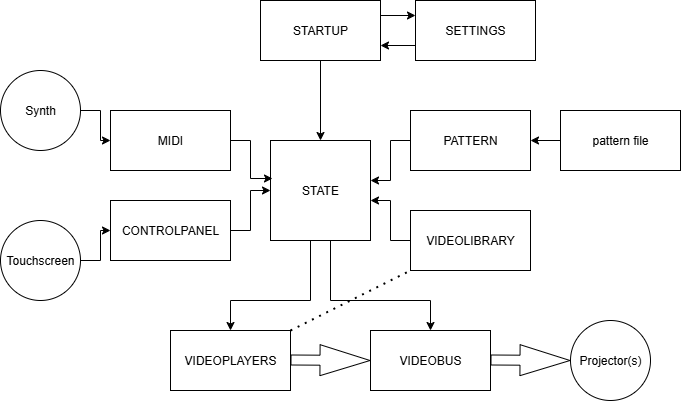
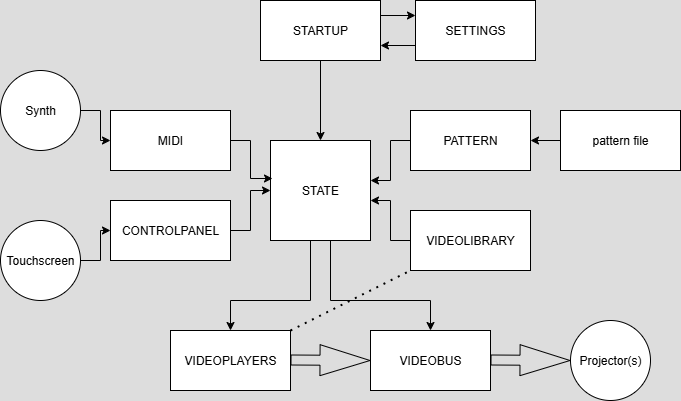
fix diagram transparency

diff --git a/README.md b/README.md
@@ -286,7 +286,7 @@ etc.
 
 ## 7/23 review Dataclass and YAML for score/pattern file
 
-![state diagram showing flow of control](DOC/IMAGES/state_diagram.jpg)
+![state diagram showing flow of control](DOC/IMAGES/state_diagram.png)
 
 
 # YAML Pattern File prototype:
